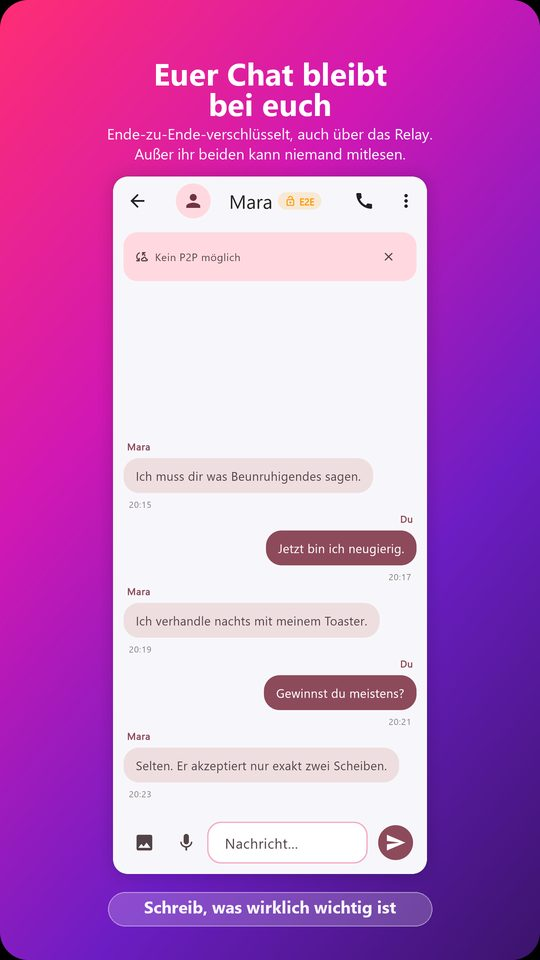
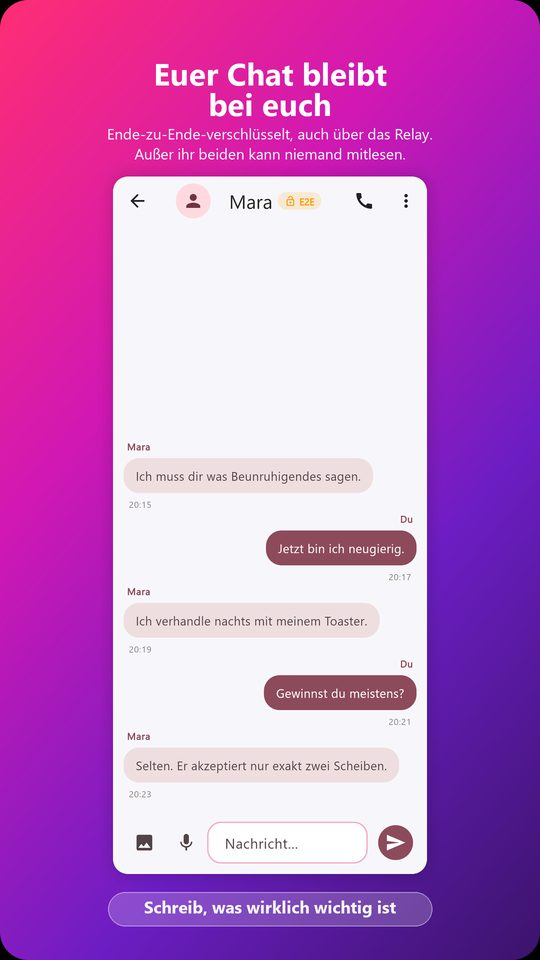
fix(store): "Kein P2P moeglich" nicht im Chat-Screenshot
NUTZERWUNSCH (01.11.2026): "Bei Screenshot 3 soll die Nachricht mit
Kein P2P moeglich nicht angezeigt werden (nur da)".

Der Verbindungs-Hinweis stand im Chat-Store-Bild ganz oben. Er sah
dort wie eine Fehlermeldung aus - und passt nicht zur Ueberschrift
der Kachel ("Euer Chat bleibt bei euch"). Ausserdem schob er die
Nachrichten nach unten.

GELOEST OHNE EINE ZEILE PRODUKTIONSCODE:

Der Wegtipp-Knopf (X) neben dem Text existiert genau dafuer - der
Nutzer kann den Hinweis wegtippen. Der Screenshot-Generator tippt ihn
jetzt an, bevor der das Bild aufnimmt. Das Bild zeigt damit den
Zustand "Nutzer hat den Hinweis weggetippt" - und genau so sieht ein
Geraet aus, auf dem der Hinweis schon verschwunden ist.

Die App selbst aendert sich nicht: sie zeigt den Hinweis weiterhin,
wenn keine direkte Verbindung zustande kommt. Er verschwindet nur im
Store-Bild.

Nebeneffekt: der Test prueft damit den Wegtipp-Knopf selbst. Waere er
weg oder wuerde nichts tun, bliebe der Hinweis im Bild stehen und
der Test schlaegt fehl.

Changed region(s): [[0.2074, 0.2188, 0.7704, 0.3125]]

diff --git a/test/screenshots/store_v091_shots_test.dart b/test/screenshots/store_v091_shots_test.dart
@@ -358,6 +358,45 @@ Future<void> _pump(
   );
 }
 
+/// Tippt den Verbindungs-Hinweis im Chat weg ("Kein P2P moeglich").
+///
+/// NUTZERWUNSCH (01.11.2026): "Bei Screenshot 3 soll die Nachricht mit
+/// Kein P2P moeglich nicht angezeigt werden (nur da)".
+///
+/// Der Hinweis sieht im Store-Bild wie eine Fehlermeldung aus - und
+/// passt nicht zur Ueberschrift der Kachel ("Euer Chat bleibt bei
+/// euch"). Er steht obendrauf und schiebt die Nachrichten nach unten.
+///
+/// Weggetippt wird er ueber den Knopf, den die App dafuer anbietet -
+/// der Wegtipp-Knopf (X) neben dem Text. Das aendert NICHTS an der
+/// App: sie zeigt den Hinweis weiterhin, wenn keine direkte
+/// Verbindung zustande kommt. Nur das Store-Bild zeigt den Zustand
+/// "Nutzer hat den Hinweis weggetippt" - und genau so sieht ein
+/// Geraet aus, auf dem der Hinweis schon verschwunden ist.
+///
+/// Das prueft nebenbei den Knopf selbst: wenn er nicht mehr da waere
+/// oder nichts mehr tuete, wuerde der Hinweis im Bild stehen bleiben
+/// und `check_store_screenshots.py` faelle nicht auf.
+Future<void> _wegtippeVerbindungshinweis(WidgetTester tester) async {
+  const hinweis = 'Kein P2P m\u{f6}glich';
+  final text = find.text(hinweis);
+  if (text.evaluate().isEmpty) return; // nichts zu tun
+
+  // Der Knopf sitzt in derselben Karte wie der Text.
+  final karte = find.ancestor(of: text, matching: find.byType(Card));
+  final knopf = find.descendant(
+    of: karte,
+    matching: find.byIcon(Icons.close),
+  );
+  if (knopf.evaluate().isEmpty) return;
+
+  await tester.tap(knopf.first);
+  await tester.pumpAndSettle(const Duration(milliseconds: 400));
+
+  expect(find.text(hinweis), findsNothing,
+      reason: 'Der Verbindungs-Hinweis muss im Store-Bild weg sein.');
+}
+
 /// Liest `version: x.y.z+build` aus pubspec.yaml.
 ///
 /// Bewusst aus der Datei statt aus PackageInfo: im Test laeuft kein
@@ -959,6 +998,7 @@ void main() {
         name: '02_chat',
         size: _phone,
         dpr: _dpr,
+        after: _wegtippeVerbindungshinweis,
         extra: [
           chatServiceProvider.overrideWithValue(
               _FakeChatService(_chatPartner(), _chatHistory())),
@@ -971,6 +1011,7 @@ void main() {
         name: '02_chat',
         size: _phone,
         dpr: _dpr,
+        after: _wegtippeVerbindungshinweis,
         extra: [
           chatServiceProvider.overrideWithValue(
               _FakeChatService(_chatPartner(), _chatHistory())),

diff --git a/passkey-assets/impressum.html b/passkey-assets/impressum.html
@@ -99,6 +99,7 @@ body {
     
     
     
+    
     /* Web-Design (tool/web_theme.py) */
     /* ---------------------------------------------------------------
        Eine Quelle fuer alle Seiten.
@@ -662,6 +663,7 @@ body {
   <label for="modus-umschalter" class="modus-knopf" title="Dark- und Light-Mode umschalten"><svg class="icon-mond" viewBox="0 0 24 24" fill="none" stroke="currentColor" stroke-width="1.8" stroke-linecap="round" stroke-linejoin="round" aria-hidden="true"><path d="M12 3a9 9 0 1 0 9 9 7 7 0 0 1-9-9Z"/></svg><svg class="icon-sonne" viewBox="0 0 24 24" fill="none" stroke="currentColor" stroke-width="1.8" stroke-linecap="round" aria-hidden="true"><circle cx="12" cy="12" r="4"/><path d="M12 2v2M12 20v2M4.9 4.9l1.4 1.4M17.7 17.7l1.4 1.4M2 12h2M20 12h2M4.9 19.1l1.4-1.4M17.7 6.3l1.4-1.4"/></svg></label>
 </header>
 <div class="inhalt">
+
 
 
 

diff --git a/passkey-assets/kinderschutz.html b/passkey-assets/kinderschutz.html
@@ -57,6 +57,7 @@ body {
     
     
     
+    
     /* Web-Design (tool/web_theme.py) */
     /* ---------------------------------------------------------------
        Eine Quelle fuer alle Seiten.
@@ -620,6 +621,7 @@ body {
   <label for="modus-umschalter" class="modus-knopf" title="Dark- und Light-Mode umschalten"><svg class="icon-mond" viewBox="0 0 24 24" fill="none" stroke="currentColor" stroke-width="1.8" stroke-linecap="round" stroke-linejoin="round" aria-hidden="true"><path d="M12 3a9 9 0 1 0 9 9 7 7 0 0 1-9-9Z"/></svg><svg class="icon-sonne" viewBox="0 0 24 24" fill="none" stroke="currentColor" stroke-width="1.8" stroke-linecap="round" aria-hidden="true"><circle cx="12" cy="12" r="4"/><path d="M12 2v2M12 20v2M4.9 4.9l1.4 1.4M17.7 17.7l1.4 1.4M2 12h2M20 12h2M4.9 19.1l1.4-1.4M17.7 6.3l1.4-1.4"/></svg></label>
 </header>
 <div class="inhalt">
+
 
 
 

diff --git a/passkey-assets/konto-loeschen.html b/passkey-assets/konto-loeschen.html
@@ -47,6 +47,7 @@ body {
     
     
     
+    
     /* Web-Design (tool/web_theme.py) */
     /* ---------------------------------------------------------------
        Eine Quelle fuer alle Seiten.
@@ -610,6 +611,7 @@ body {
   <label for="modus-umschalter" class="modus-knopf" title="Dark- und Light-Mode umschalten"><svg class="icon-mond" viewBox="0 0 24 24" fill="none" stroke="currentColor" stroke-width="1.8" stroke-linecap="round" stroke-linejoin="round" aria-hidden="true"><path d="M12 3a9 9 0 1 0 9 9 7 7 0 0 1-9-9Z"/></svg><svg class="icon-sonne" viewBox="0 0 24 24" fill="none" stroke="currentColor" stroke-width="1.8" stroke-linecap="round" aria-hidden="true"><circle cx="12" cy="12" r="4"/><path d="M12 2v2M12 20v2M4.9 4.9l1.4 1.4M17.7 17.7l1.4 1.4M2 12h2M20 12h2M4.9 19.1l1.4-1.4M17.7 6.3l1.4-1.4"/></svg></label>
 </header>
 <div class="inhalt">
+
 
 
 

diff --git a/passkey-assets/dating-sicherheit.html b/passkey-assets/dating-sicherheit.html
@@ -14,6 +14,7 @@
     
     
     
+    
     /* Web-Design (tool/web_theme.py) */
     /* ---------------------------------------------------------------
        Eine Quelle fuer alle Seiten.
@@ -576,6 +577,7 @@
   <label for="modus-umschalter" class="modus-knopf" title="Dark- und Light-Mode umschalten"><svg class="icon-mond" viewBox="0 0 24 24" fill="none" stroke="currentColor" stroke-width="1.8" stroke-linecap="round" stroke-linejoin="round" aria-hidden="true"><path d="M12 3a9 9 0 1 0 9 9 7 7 0 0 1-9-9Z"/></svg><svg class="icon-sonne" viewBox="0 0 24 24" fill="none" stroke="currentColor" stroke-width="1.8" stroke-linecap="round" aria-hidden="true"><circle cx="12" cy="12" r="4"/><path d="M12 2v2M12 20v2M4.9 4.9l1.4 1.4M17.7 17.7l1.4 1.4M2 12h2M20 12h2M4.9 19.1l1.4-1.4M17.7 6.3l1.4-1.4"/></svg></label>
 </header>
 <div class="inhalt">
+
 
 
 

diff --git a/passkey-assets/index.html b/passkey-assets/index.html
@@ -180,6 +180,7 @@
     
     
     
+    
     /* Web-Design (tool/web_theme.py) */
     /* ---------------------------------------------------------------
        Eine Quelle fuer alle Seiten.

diff --git a/passkey-assets/bestaetigt.html b/passkey-assets/bestaetigt.html
@@ -23,6 +23,7 @@
     
     
     
+    
     /* Web-Design (tool/web_theme.py) */
     /* ---------------------------------------------------------------
        Eine Quelle fuer alle Seiten.
